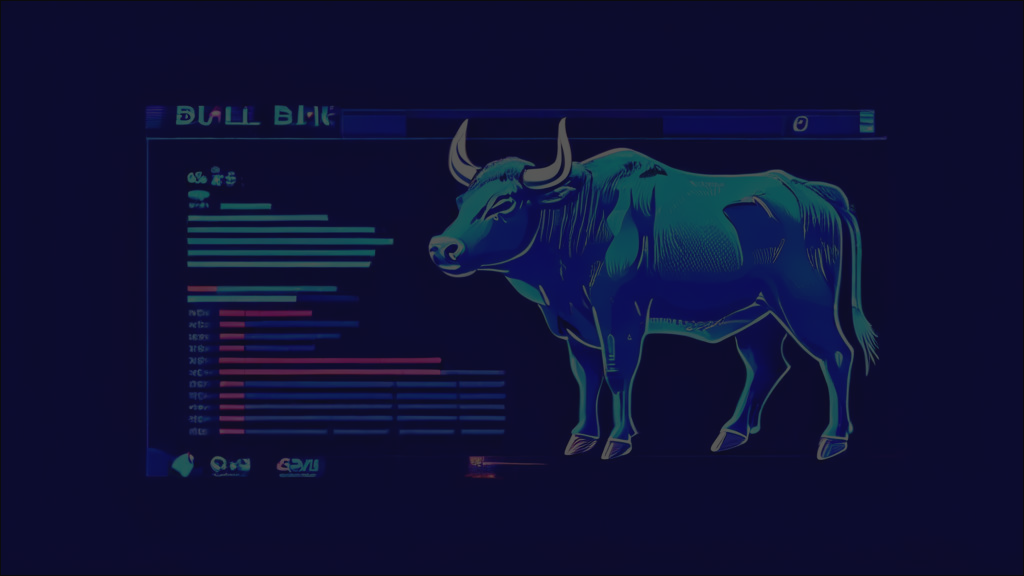
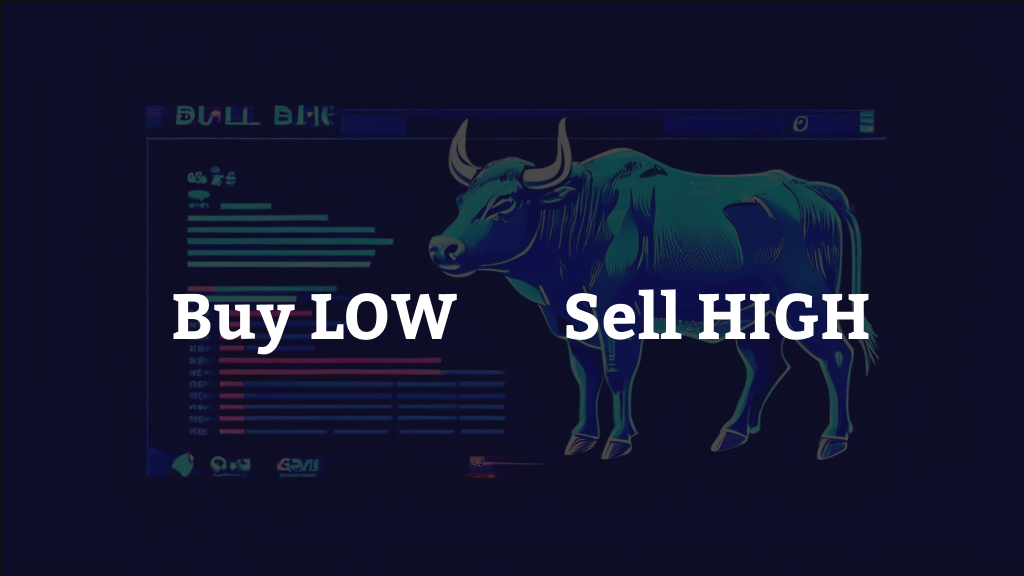
Update buy-or-sell image source URL

Changed region(s): [[0.5312, 0.5, 0.8438, 0.5938], [0.1562, 0.5, 0.4688, 0.625]]

diff --git a/frames/src/app/images/confirm-order/route.tsx b/frames/src/app/images/confirm-order/route.tsx
@@ -1,134 +1,141 @@
-import { ImageResponse } from 'next/og'
+import { ImageResponse } from "next/og";
 // App router includes @vercel/og.
 // No need to install it.
 
-export const runtime = 'edge'
+export const runtime = "edge";
 
 export async function GET(request: Request) {
-    try {
-        const { searchParams } = new URL(request.url)
+  try {
+    const { searchParams } = new URL(request.url);
 
-        const hasEth = searchParams.has('ethprice')
-        const eth = hasEth
-            ? searchParams.get('ethprice')?.slice(0, 100)
-            : ''
+    const hasEth = searchParams.has("ethprice");
+    const eth = hasEth ? searchParams.get("ethprice")?.slice(0, 100) : "";
 
+    const hasEthHigh = searchParams.has("ethpricehigh");
+    const ethHigh = hasEthHigh
+      ? searchParams.get("ethpricehigh")?.slice(0, 100)
+      : "";
 
-        const hasEthHigh = searchParams.has('ethpricehigh')
-        const ethHigh = hasEthHigh
-            ? searchParams.get('ethpricehigh')?.slice(0, 100)
-            : ''
+    const hasEthLow = searchParams.has("ethpricelow");
+    const ethLow = hasEthLow
+      ? searchParams.get("ethpricelow")?.slice(0, 100)
+      : "";
 
-        const hasEthLow = searchParams.has('ethpricelow')
-        const ethLow = hasEthLow
-            ? searchParams.get('ethpricelow')?.slice(0, 100)
-            : ''
+    const hasTarget = searchParams.has("target");
+    const tar = hasTarget ? searchParams.get("target")?.slice(0, 100) : "";
 
-            
-        const hasTarget = searchParams.has('target')
-        const tar = hasTarget
-            ? searchParams.get('target')?.slice(0, 100)
-            : ''
+    return new ImageResponse(
+      (
+        <div
+          style={{
+            display: "flex",
+            height: "100%",
+            width: "100%",
+            alignItems: "center",
+            justifyContent: "center",
+            flexDirection: "column",
+            backgroundImage: `url('${process.env.NEXT_PUBLIC_SITE_URL}/sell.png')`,
+            backgroundSize: "100% 100%", 
+            backgroundPosition: "center",
+            backgroundRepeat: "no-repeat",
+            fontSize: 30,
+            fontWeight: 700,
+            textAlign: "center",
+          }}
+        >
+          <p
+            style={{
+              color: "grey",
+              fontSize: 30,
+              fontWeight: 700,
+              margin: 0,
+              textDecoration: "underline",
+            }}
+          >
+            Current Price of Ether :
+            <span style={{ fontWeight: "bold", marginLeft: 5 }}>
+              {parseFloat(eth ?? "0").toFixed(2)} USDC
+            </span>
+          </p>
+          <p
+            style={{
+              color: "grey",
+              fontSize: 30,
+              fontWeight: 700,
+              margin: 0,
+              marginTop: 20,
+              textDecoration: "underline",
+            }}
+          >
+            Target Price After 20% margin :{parseFloat(tar ?? "0").toFixed(2)}{" "}
+            USDC
+          </p>
+          <hr></hr>
 
-        return new ImageResponse(
-            (
-                <div
-                    style={{
-                        display: 'flex',
-                        height: '100%',
-                        width: '100%',
-                        alignItems: 'center',
-                        justifyContent: 'center',
-                        flexDirection: 'column',
-                        backgroundImage: 'linear-gradient(to bottom, #dbf4ff, #fff1f1)',
-                        fontSize: 30,
-                        fontWeight: 700,
-                        textAlign: 'center',
-                    }}
-                >
-                    <p
-                        style={{
-                            backgroundImage:
-                                'linear-gradient(90deg, rgb(0, 124, 240), rgb(0, 223, 216))',
-                            backgroundClip: 'text',
-                            color: 'transparent',
-                            fontSize: 30,
-                            fontWeight: 700,
-                            margin: 0,
-                        }}
-                    >
-                        Current : {eth} USDC/ETH
-                    </p>
-                    <p
-                        style={{
-                            backgroundImage:
-                                'linear-gradient(90deg, rgb(121, 40, 202), rgb(255, 0, 128))',
-                            backgroundClip: 'text',
-                            color: 'transparent',
-                            fontSize: 30,
-                            fontWeight: 700,
-                            margin: 0,
-                            marginTop: 20,
-                        }}
-                    >
-                        Target : {tar} USDC/ETH
-
-                    </p>
-                    <p
-                        style={{
-                            backgroundImage:
-                                'linear-gradient(90deg, rgb(121, 40, 202), rgb(255, 0, 128))',
-                            backgroundClip: 'text',
-                            color: 'transparent',
-                            fontSize: 30,
-                            fontWeight: 700,
-                            margin: 0,
-                            marginTop: 20,
-                        }}
-                    >
-                        Above Margin : {ethHigh} USDC
-
-                    </p>
-                    <p
-                        style={{
-                            backgroundImage:
-                                'linear-gradient(90deg, rgb(121, 40, 202), rgb(255, 0, 128))',
-                            backgroundClip: 'text',
-                            color: 'transparent',
-                            fontSize: 30,
-                            fontWeight: 700,
-                            margin: 0,
-                            marginTop: 20,
-                        }}
-                    >
-                        Below Margin : {ethLow} ETH
-                    </p>
-                    <p
-                        style={{
-                            backgroundImage:
-                                'linear-gradient(90deg, rgb(121, 40, 202), rgb(255, 0, 128))',
-                            backgroundClip: 'text',
-                            color: 'transparent',
-                            fontSize: 30,
-                            fontWeight: 700,
-                            margin: 0,
-                            marginTop: 20,
-                        }}
-                    >
-                      Time period : 6 days
-
-                    </p>
-                </div>
-            ),
-            {
-                width: 1200,
-                height: 630,
-            }
-        )
-    } catch (e: any) {
-        console.log(`${e.message}`)
-        return new Response(`Failed to generate the image`, {
-            status: 500,
-        })
-    }
+          <p
+            style={{
+              color: "white",
+              fontSize: 30,
+              fontWeight: 700,
+              margin: 0,
+              marginTop: 20,
+            }}
+          >
+            After
+            <span
+              style={{
+                fontWeight: "bold",
+                marginLeft: 5,
+              }}
+            >
+              6 days
+            </span>
+          </p>
+          <p
+            style={{
+              backgroundImage:
+                "linear-gradient(90deg, rgb(121, 40, 202), rgb(255, 0, 128))",
+              backgroundClip: "text",
+              color: "white",
+              fontSize: 30,
+              fontWeight: 900,
+              margin: 0,
+              marginTop: 20,
+            }}
+          >
+            Price &gt;= Margin:
+            <span style={{ fontWeight: "900", marginLeft: 5 }}>
+              {parseFloat(ethHigh ?? "0").toFixed(2)} USDC
+            </span>
+          </p>
+          <p
+            style={{
+              backgroundImage:
+                "linear-gradient(90deg, rgb(121, 40, 202), rgb(255, 0, 128))",
+              backgroundClip: "text",
+              color: "white",
+              fontSize: 30,
+              fontWeight: 900,
+              margin: 0,
+              marginTop: 20,
+            }}
+          >
+            Price &lt;= Margin:
+            <span style={{ fontWeight: "900", marginLeft: 5, }}>
+              {parseFloat(ethLow ?? "0").toFixed(2)} ETH
+            </span>
+          </p>
+        </div>
+      ),
+      {
+        width: 1200,
+        height: 630,
+      }
+    );
+  } catch (e: any) {
+    console.log(`${e.message}`);
+    return new Response(`Failed to generate the image`, {
+      status: 500,
+    });
+  }
 }

diff --git a/frames/src/app/images/buy-or-sell/route.tsx b/frames/src/app/images/buy-or-sell/route.tsx
@@ -39,35 +39,6 @@ export async function GET(request: Request) {
             textAlign: "center",
           }}
         >
-          <p
-            style={{
-              backgroundImage:
-                "linear-gradient(90deg, rgb(0, 124, 240), rgb(0, 223, 216))",
-              backgroundClip: "text",
-              color: "transparent",
-              fontSize: 80,
-              fontWeight: 700,
-              margin: 0,
-            }}
-          >
-            Buy Low and Sell High
-          </p>
-          {description && (
-            <p
-              style={{
-                backgroundImage:
-                  "linear-gradient(90deg, rgb(121, 40, 202), rgb(255, 0, 128))",
-                backgroundClip: "text",
-                color: "transparent",
-                fontSize: 80,
-                fontWeight: 700,
-                margin: 0,
-                marginTop: 20,
-              }}
-            >
-              {description}
-            </p>
-          )}
         </div>
       ),
       {

diff --git a/frames/src/app/api/buy-sell/route.ts b/frames/src/app/api/buy-sell/route.ts
@@ -17,7 +17,7 @@ async function getResponse(req: NextRequest): Promise<NextResponse> {
         },
       ],
       image: {
-        src: `${process.env.NEXT_PUBLIC_SITE_URL}/images/buy-or-sell?title=''`,
+        src: `${process.env.NEXT_PUBLIC_SITE_URL}/images/buy-or-sell`,
       },
       postUrl: `${process.env.NEXT_PUBLIC_SITE_URL}/api/sell`,
 
